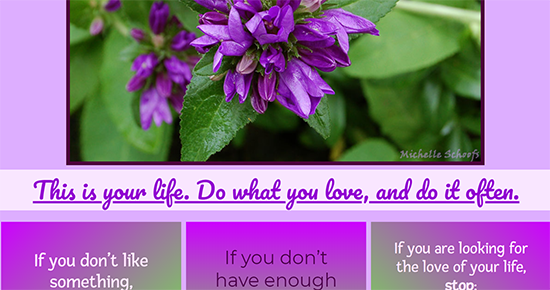
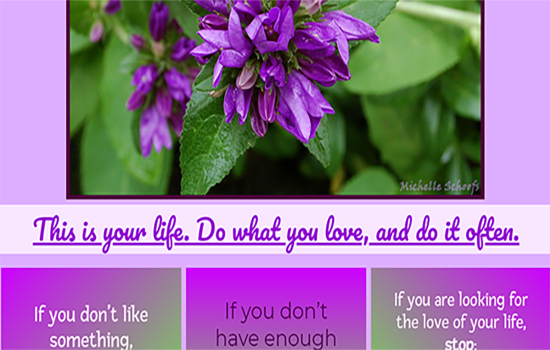
update footer on responsive pages

diff --git a/work/css/main.css b/work/css/main.css
@@ -145,7 +145,7 @@ figure {
     flex-flow: row wrap;
     width: 100%;
     border-top: 3px solid #ff007a;
-    margin: 10px 0;
+    margin: 0;
     padding-top: 20px;
 }
 
@@ -174,6 +174,11 @@ p {
 /********Footer********/
 footer {
     border-top: 3px solid #ff007a;
+    width: 100%;
+    margin: 0;
+    padding: 0;
+    display: flex;
+    justify-content: center;
 }
 
 footer h5 {
@@ -213,7 +218,7 @@ footer, a {
     .container {
         margin: 10px auto;
     }
-    header {
+       header {
         display: flex;
         justify-content: space-between;
         align-items: baseline;
@@ -242,7 +247,7 @@ footer, a {
     header nav {
         display: flex;
         justify-content: space-between;
-        padding-left: 700px;
+        padding-left: 600px;
     }
     header nav ul li {
         display: inline-block;
@@ -252,17 +257,14 @@ footer, a {
     .unplugged, .jubilee, .rougue-pkgs, .holstee {
     display: flex;
     justify-content: space-around;
-    align-items: flex-start;
+    align-content: flex-start;
     flex-flow: row wrap;
     flex-basis: 50%;
     border: none;
     margin: 0;
     padding-top: 30px;
 }
-    .portfolio img {
-        min-height: 350px;
-    }
-    .portfolio h4 {
+        .portfolio h4 {
         padding: 0;
     }
     .portfolio p {

diff --git a/team-max/css/main.css b/team-max/css/main.css
@@ -170,22 +170,27 @@ p {
 
 /********Footer********/
 footer {
-    border-top: 1px solid #f8fc71;
+    border-top: 2px solid #f8fc71;
     width: 100%;
     margin: 0;
     padding: 0;
     display: flex;
     justify-content: center;
+    flex-flow: row wrap;
 }
-
-footer h2 a {
+footer h5 {
     font-family: 'Poppins', sans-serif;
     font-size: 1em;
     font-weight: 300;
     color: #f8fc71;
     text-align: center;
     margin: 0;
-    padding: 35px 0;
+    padding: 10px 15px;
+}
+
+footer h5 a {
+    color: #f8fc71;
+    margin: 0;
     text-decoration: none;
 }
 
@@ -240,7 +245,7 @@ footer h2 a {
     }
     header nav ul {
         text-align: right;
-        padding: 0 0 0 650px;
+        padding: 0 0 0 575px;
     }
     header nav ul li {
         display: inline-block;

diff --git a/team-kirby/css/main.css b/team-kirby/css/main.css
@@ -179,22 +179,29 @@ p {
 /********Footer********/
 
 footer {
-    border-top: 1px solid #f4c5d9;
+    border-top: 2px solid #f4c5d9;
     width: 100%;
     margin: 0;
     padding: 0;
     display: flex;
     justify-content: center;
+    flex-flow: row wrap;
 }
 
-footer h2 a {
+footer h5 {
     font-family: 'Poppins', sans-serif;
     font-size: 1em;
+    line-height: 1.5em;
     font-weight: 300;
-    color: #f4c5d9;
+    color: #9aabd4;
     text-align: center;
     margin: 0;
-    padding: 35px 0;
+    padding: 10px 15px;
+}
+
+footer h5 a {
+    color: #f4c5d9;
+    margin: 0;
     text-decoration: none;
 }
 

diff --git a/team-kirby/index.html b/team-kirby/index.html
@@ -94,7 +94,8 @@
     </div>    
 
 <footer>
-    <h2><a href="#top">Top Menu</a></h2>
+    <h5>Copyrite &commat; Michelle Schoofs   &vert;</h5>  
+    <h5><a href="#top">Top Menu</a></h5>
 </footer>
     
     </body>

diff --git a/team-max/index.html b/team-max/index.html
@@ -95,7 +95,8 @@
   </div>
 
 <footer>
-    <h2><a href="#top">Top Menu</a></h2>
+    <h5>Copyrite &commat; Michelle Schoofs  &vert;</h5>
+    <h5><a href="#top">Top Menu</a></h5>
 </footer>
     
     </body>
